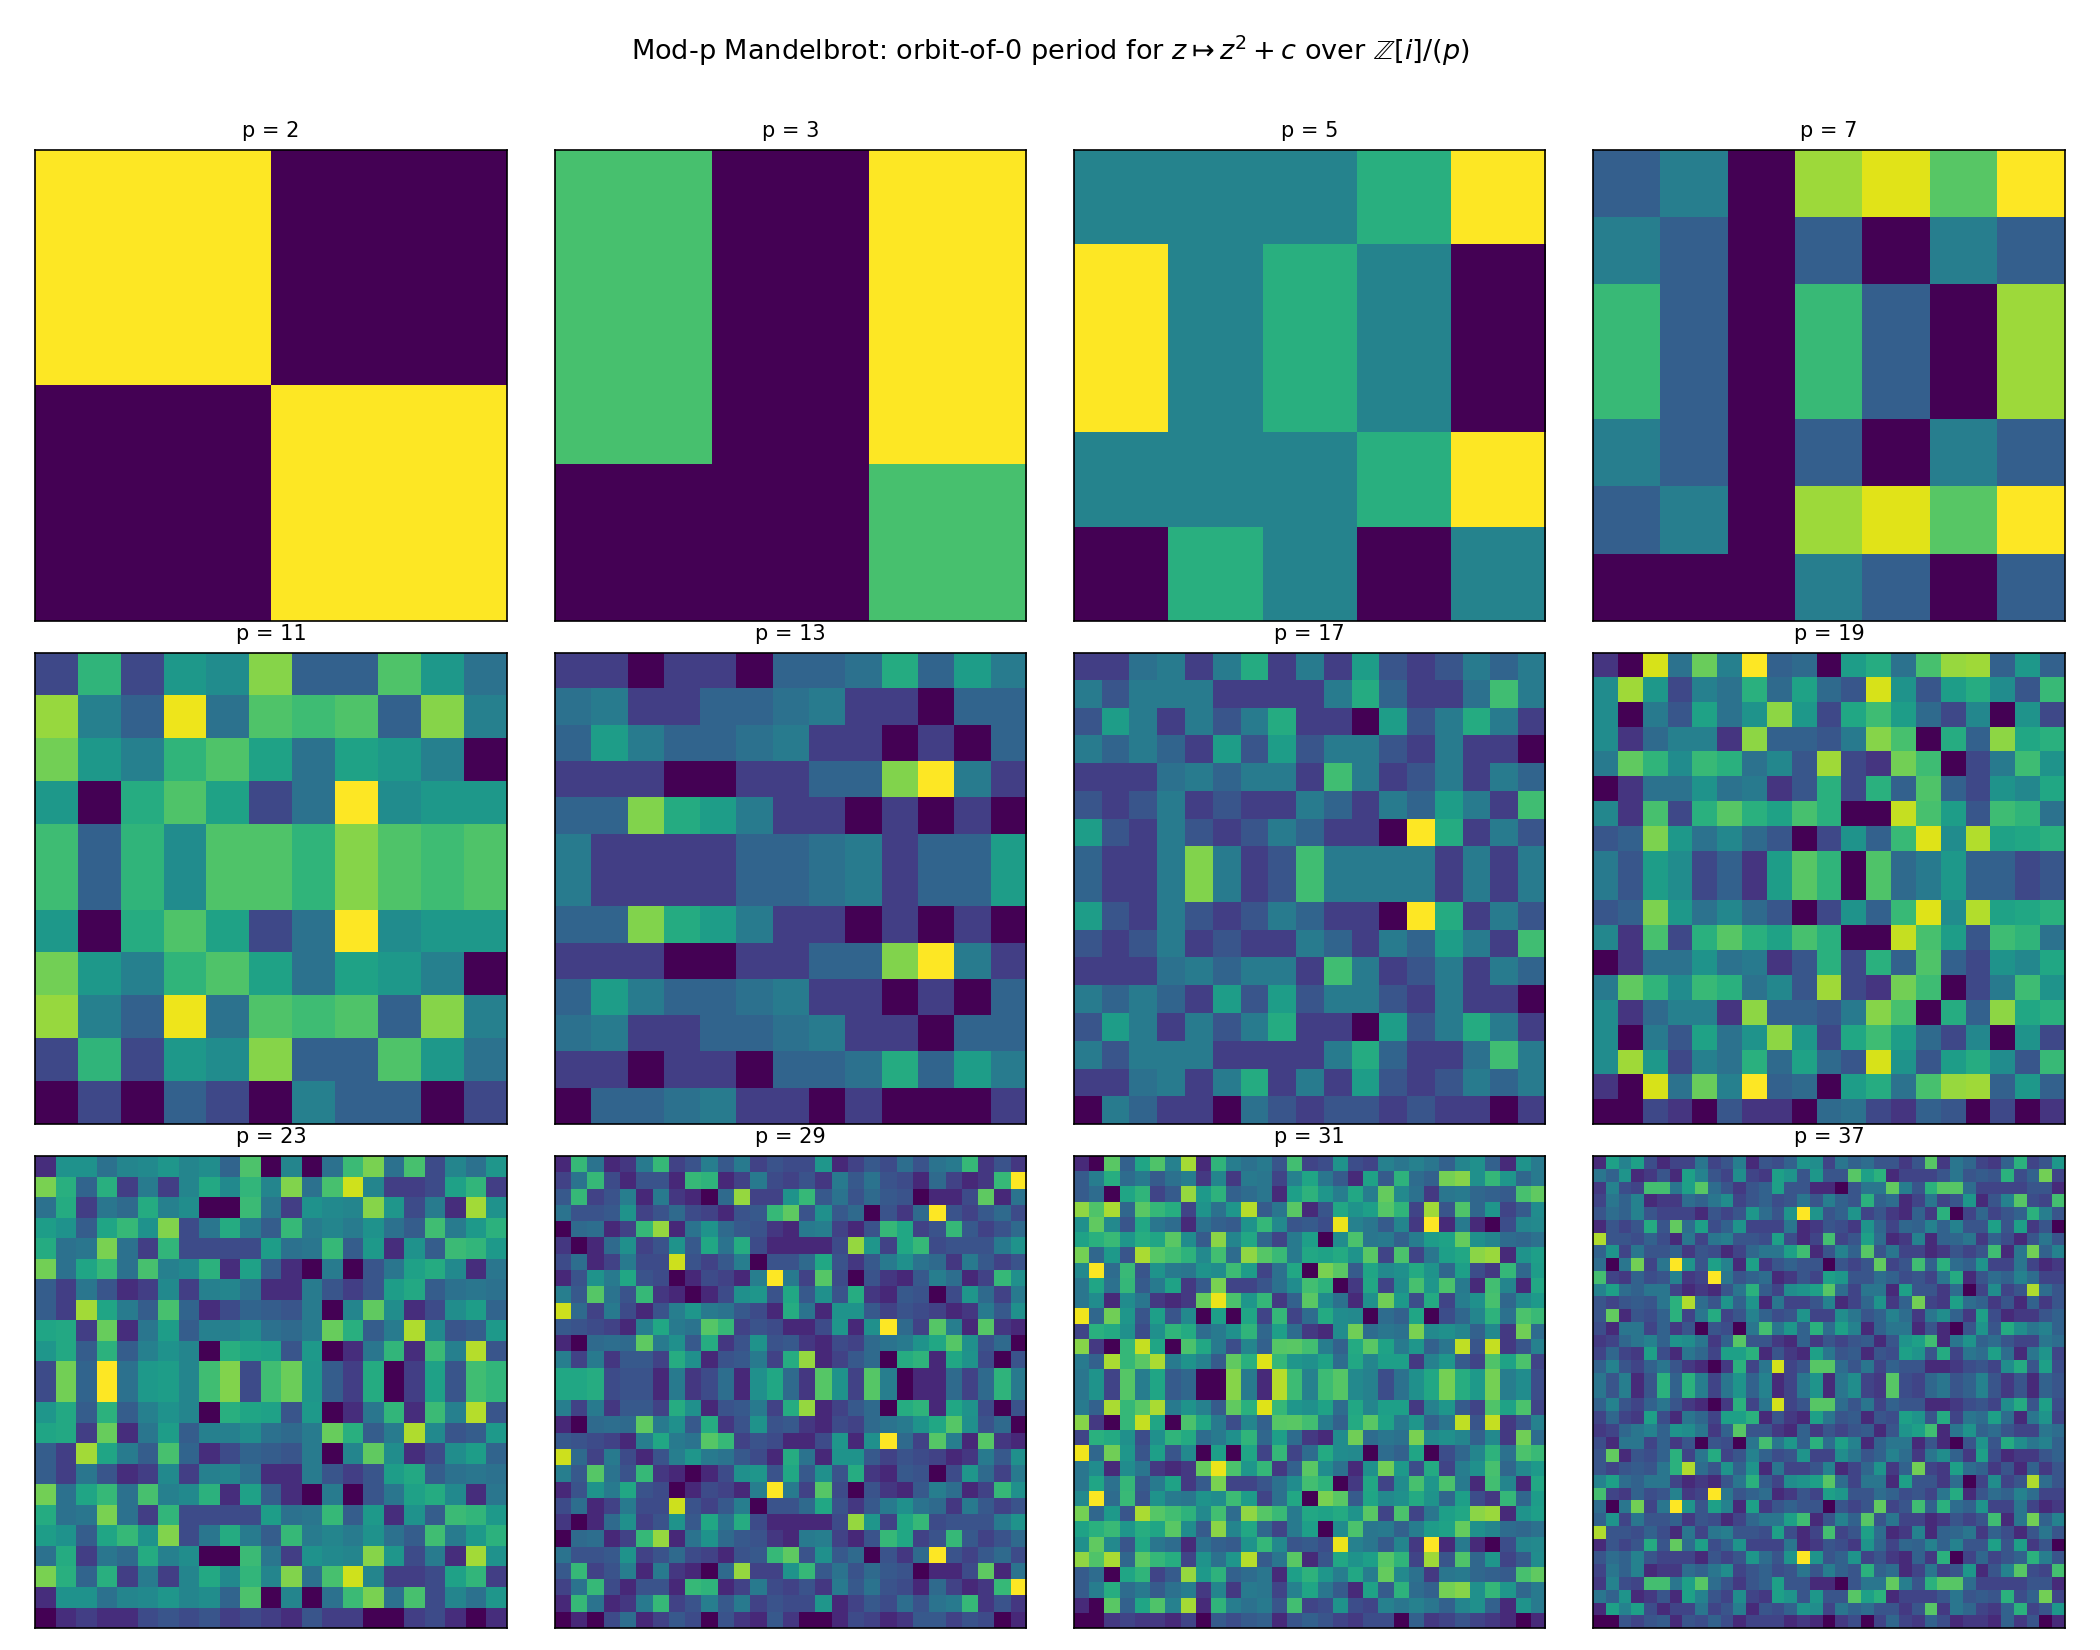
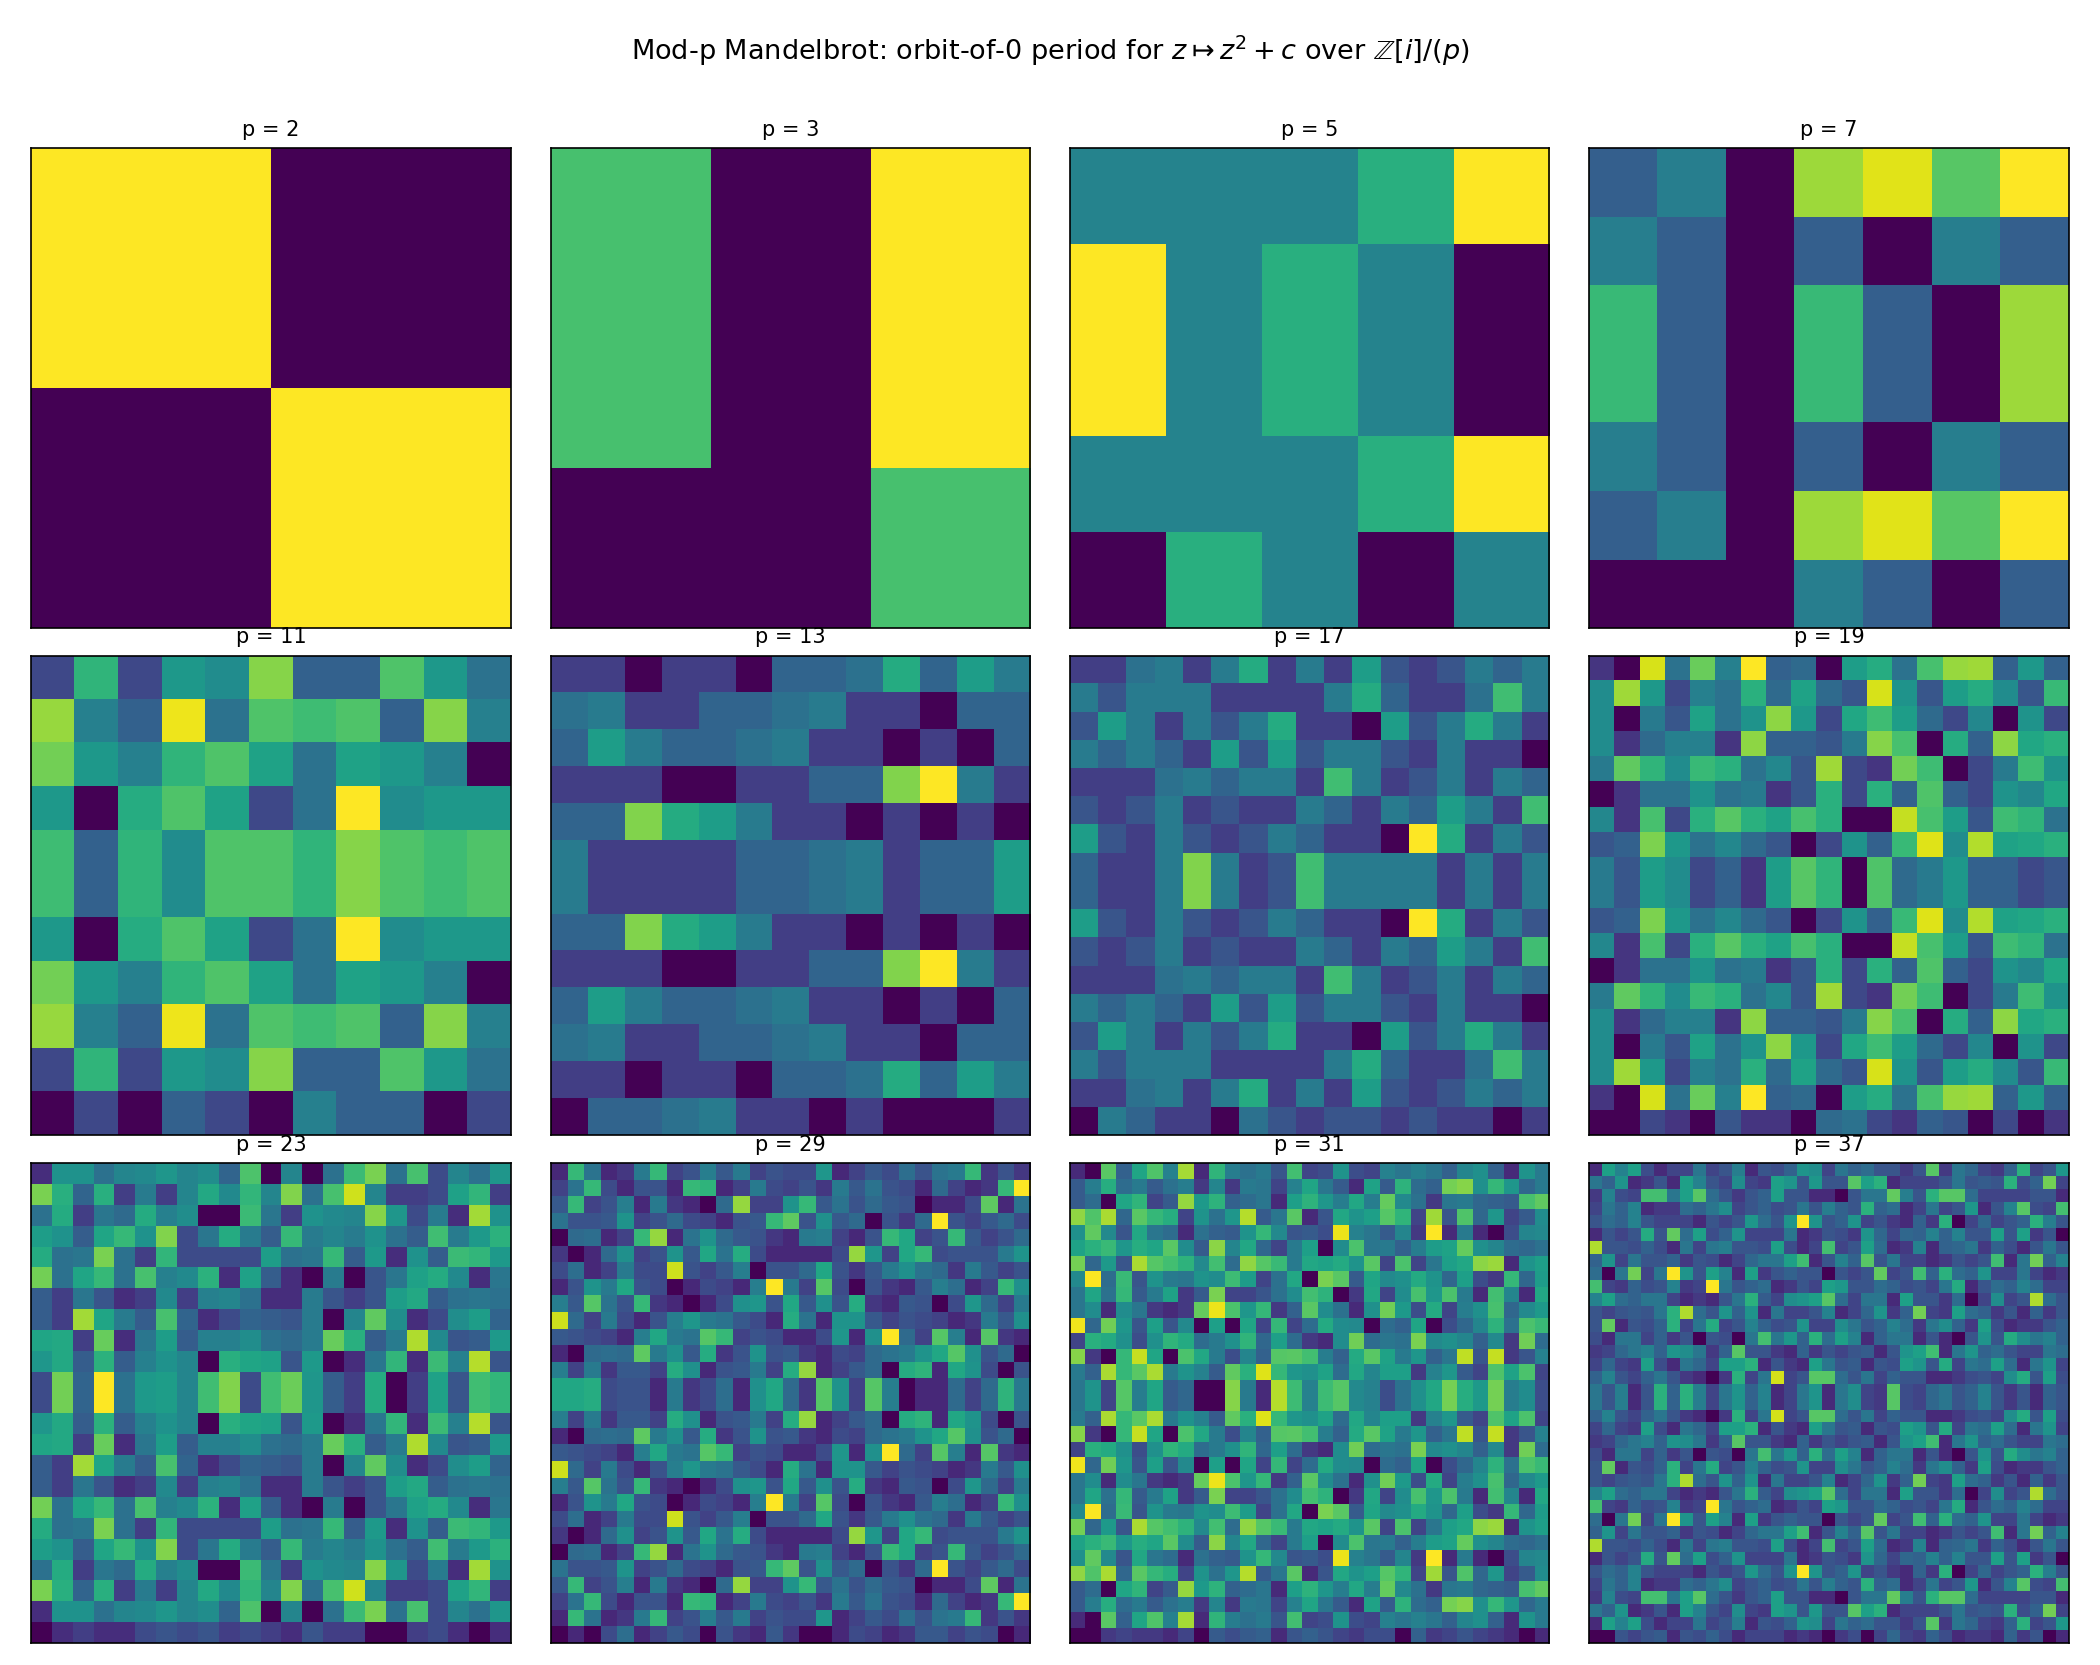
Refactor p-adic Mandelbrot per Gemini review
- Replace dict-of-tuple cycle detection with pre-allocated NumPy
  int32 array (faster, lower allocation overhead).
- Factor shared trace logic into _trace_orbit helper used by both
  Mandelbrot and Julia grids.
- Compute subplot grid dimensions dynamically from len(PRIMES);
  hide unused axes when n_primes is not a multiple of ncols.

https://claude.ai/code/session_01LfPRUHiqm1cYpvSuQgDkGH

diff --git a/folio-assistant/computations/p_adic_mandelbrot.py b/folio-assistant/computations/p_adic_mandelbrot.py
@@ -42,6 +42,25 @@ from matplotlib import colors as mcolors
 PRIMES = [2, 3, 5, 7, 11, 13, 17, 19, 23, 29, 31, 37]
 
 
+def _trace_orbit(p: int, za: int, zb: int, ca: int, cb: int,
+                 seen: np.ndarray) -> tuple[int, int]:
+    """Iterate z |-> z^2 + c starting from (za, zb) with c = (ca, cb)
+    in Z[i]/(p), using a pre-allocated p x p int32 array `seen` for
+    state tracking (caller must reset to -1). Returns (tau, rho).
+    """
+    seen.fill(-1)
+    step = 0
+    while True:
+        prev = seen[za, zb]
+        if prev != -1:
+            return int(prev), step - int(prev)
+        seen[za, zb] = step
+        new_a = (za * za - zb * zb + ca) % p
+        new_b = (2 * za * zb + cb) % p
+        za, zb = new_a, new_b
+        step += 1
+
+
 def orbit_period_grid(p: int, c0_real: int = 0, c0_imag: int = 0) -> np.ndarray:
     """For every c = a + b*i in Z[i]/(p), compute (preperiod tau, period rho)
     of the orbit of 0 under z |-> z^2 + c.
@@ -50,27 +69,14 @@ def orbit_period_grid(p: int, c0_real: int = 0, c0_imag: int = 0) -> np.ndarray:
     [tau, rho] for c = (a + b*i) mod p.
 
     Note: Z[i]/(p) is F_{p^2} when p == 3 (mod 4) and F_p x F_p otherwise;
-    the cycle-detection logic below treats it uniformly as a finite ring.
+    the cycle-detection logic treats it uniformly as a finite ring.
     """
     out = np.zeros((p, p, 2), dtype=np.int32)
+    seen = np.full((p, p), -1, dtype=np.int32)
+    z0a, z0b = c0_real % p, c0_imag % p
     for a in range(p):
         for b in range(p):
-            ca, cb = a, b
-            seen: dict[tuple[int, int], int] = {}
-            za, zb = c0_real % p, c0_imag % p
-            step = 0
-            while True:
-                key = (za, zb)
-                if key in seen:
-                    tau = seen[key]
-                    rho = step - tau
-                    break
-                seen[key] = step
-                # z = z^2 + c
-                new_a = (za * za - zb * zb + ca) % p
-                new_b = (2 * za * zb + cb) % p
-                za, zb = new_a, new_b
-                step += 1
+            tau, rho = _trace_orbit(p, z0a, z0b, a, b, seen)
             out[a, b, 0] = tau
             out[a, b, 1] = rho
     return out
@@ -81,23 +87,11 @@ def julia_period_grid(p: int, ca: int, cb: int) -> np.ndarray:
     of the orbit under z |-> z^2 + c with c = ca + cb*i.
     """
     out = np.zeros((p, p, 2), dtype=np.int32)
+    seen = np.full((p, p), -1, dtype=np.int32)
     ca, cb = ca % p, cb % p
     for a in range(p):
         for b in range(p):
-            seen: dict[tuple[int, int], int] = {}
-            za, zb = a, b
-            step = 0
-            while True:
-                key = (za, zb)
-                if key in seen:
-                    tau = seen[key]
-                    rho = step - tau
-                    break
-                seen[key] = step
-                new_a = (za * za - zb * zb + ca) % p
-                new_b = (2 * za * zb + cb) % p
-                za, zb = new_a, new_b
-                step += 1
+            tau, rho = _trace_orbit(p, a, b, ca, cb, seen)
             out[a, b, 0] = tau
             out[a, b, 1] = rho
     return out
@@ -147,8 +141,14 @@ def plot_period_grid(grid: np.ndarray, p: int, title: str, ax) -> None:
 def render_per_prime_panels(out_dir: Path) -> dict:
     """Render one PNG per prime, plus the multi-panel grid."""
     summary: dict = {}
-    fig_grid, axes = plt.subplots(3, 4, figsize=(14, 11))
+    n_primes = len(PRIMES)
+    ncols = 4
+    nrows = (n_primes + ncols - 1) // ncols
+    fig_grid, axes = plt.subplots(nrows, ncols, figsize=(14, 3.7 * nrows),
+                                   squeeze=False)
     axes_flat = axes.flatten()
+    for ax in axes_flat[n_primes:]:
+        ax.axis("off")
 
     for idx, p in enumerate(PRIMES):
         grid = orbit_period_grid(p)
@@ -187,8 +187,14 @@ def render_per_prime_panels(out_dir: Path) -> dict:
 
 def render_julia_panels(out_dir: Path, ca: int = -1, cb: int = 0) -> None:
     """Render Julia (in z-plane) at fixed c, for a grid of primes."""
-    fig, axes = plt.subplots(3, 4, figsize=(14, 11))
+    n_primes = len(PRIMES)
+    ncols = 4
+    nrows = (n_primes + ncols - 1) // ncols
+    fig, axes = plt.subplots(nrows, ncols, figsize=(14, 3.7 * nrows),
+                              squeeze=False)
     axes_flat = axes.flatten()
+    for ax in axes_flat[n_primes:]:
+        ax.axis("off")
     for idx, p in enumerate(PRIMES):
         grid = julia_period_grid(p, ca, cb)
         plot_period_grid(grid, p, f"p = {p}", axes_flat[idx])
